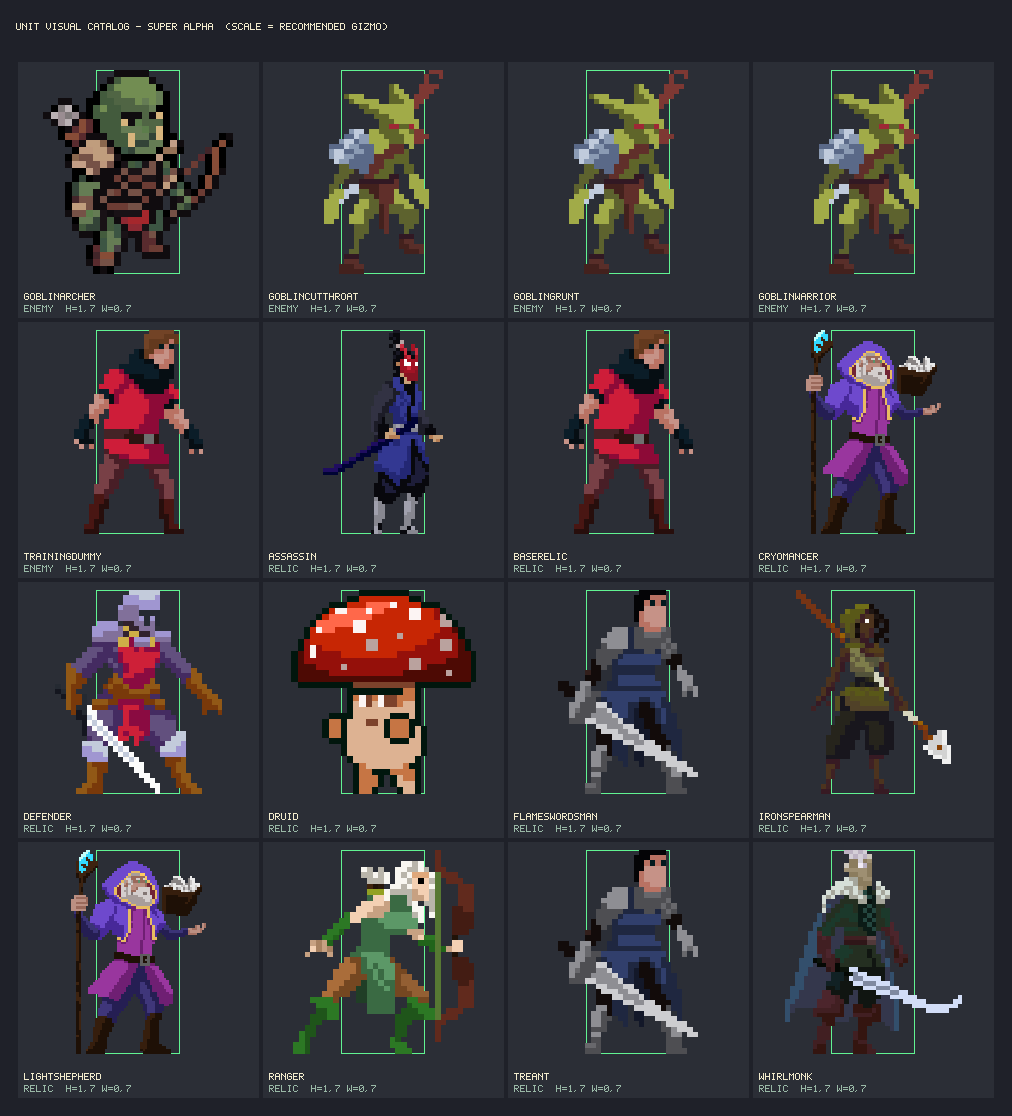
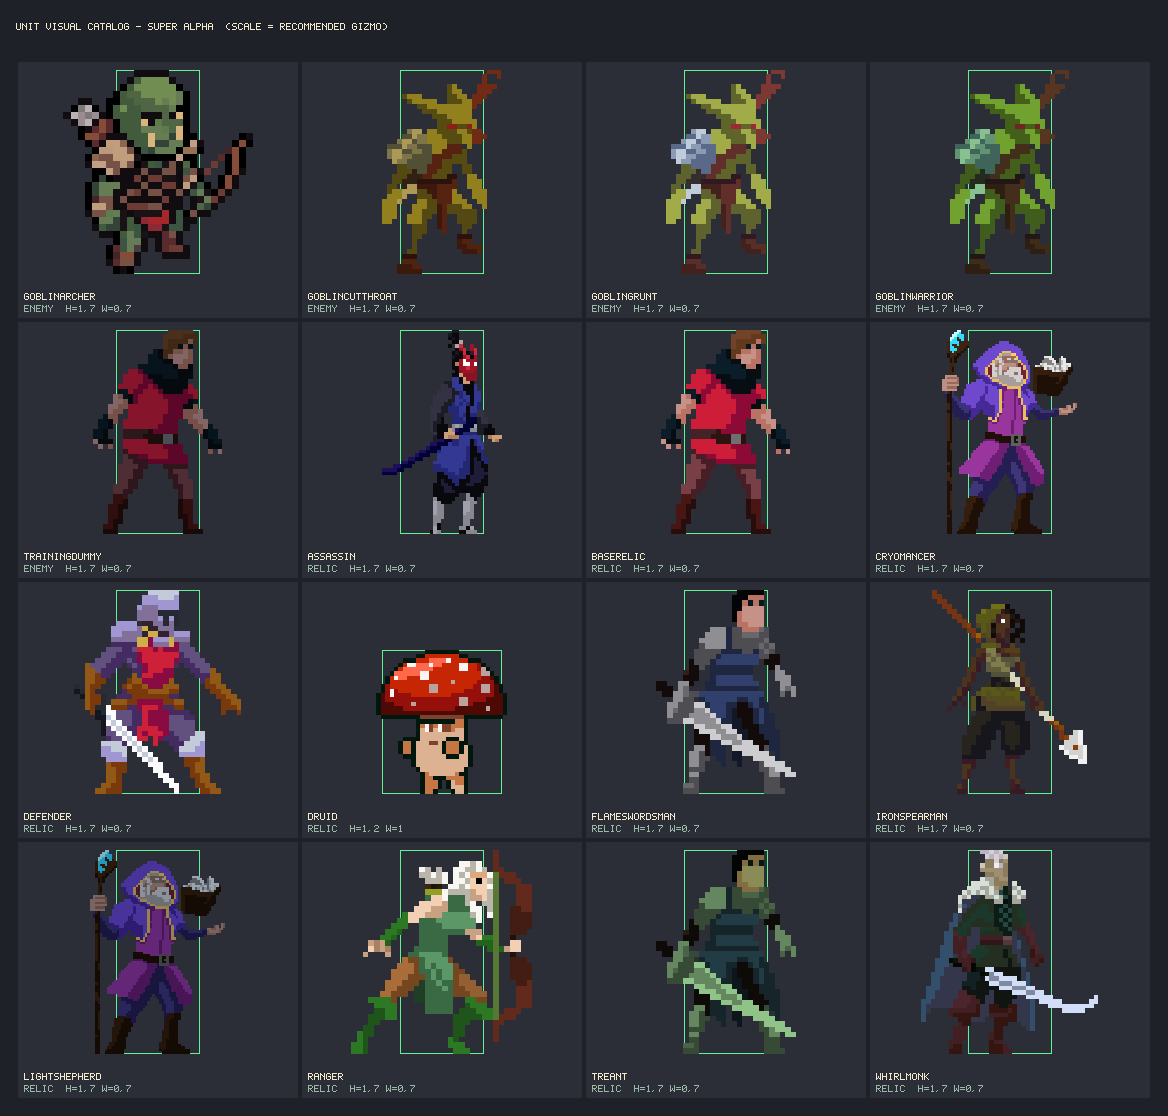
fix(visual): a shade only mutes the channels the art actually has
The warm shade was invisible on the red warrior, and that is not a tuning miss - it
is arithmetic. Tint multiplies, so a shade can only pull down channels the art
already carries: the red warrior's green and blue are near zero and its red is what
the warm shade leaves untouched. The training dummy came out identical to the base
relic it was supposed to be told apart from.

Warm is replaced by Ash - a cold darkening that is the only shade visible on ANY art.
Verdant and Tan keep their slots (they work on blue and on yellow-green), and the
enum number stays 1, so the shepherd carries over without touching its asset.

Recorded the selection rule where the shades live: pick the shade by the art's color,
not by taste.

diff --git a/Assets/_Project/Scripts/Data/Definitions/UnitColorRoles.cs b/Assets/_Project/Scripts/Data/Definitions/UnitColorRoles.cs
@@ -54,16 +54,19 @@ namespace Guildmaster.Data.Definitions
     /// <para>Тинт УМНОЖАЕТСЯ на готовый цветной арт, поэтому умеет только затемнять и уводить оттенок —
     /// перекрасить им персонажа нельзя (это работа Palette Remapper). Ступеней три: больше на цветном
     /// арте всё равно не различить. Правило сторожит <c>UnitTintPolicyTests</c>.</para>
+    /// <para><b>Ступень выбирается по цвету арта, а не по вкусу:</b> умножение гасит только те каналы,
+    /// которые в арте есть. На красном воине <see cref="Tan"/> не виден вовсе — его зелёный и синий и так
+    /// низкие, а красный ступень почти не трогает; там работает <see cref="Ash"/>.</para>
     /// </summary>
     public enum BodyShade
     {
         /// <summary>Не красим: арт как его нарисовали.</summary>
         None = 0,
-        /// <summary>Теплее и мягче исходного.</summary>
-        Warm = 1,
-        /// <summary>Зеленца.</summary>
+        /// <summary>Холодное затемнение — единственная ступень, заметная на ЛЮБОМ арте.</summary>
+        Ash = 1,
+        /// <summary>Зеленца: гасит красный и синий, зелёный оставляет.</summary>
         Verdant = 2,
-        /// <summary>Жёлто-бурый, самый тёмный из трёх.</summary>
+        /// <summary>Жёлто-бурый: работает на зелёных и жёлтых артах, на красном — нет.</summary>
         Tan = 3,
     }
 
@@ -99,7 +102,7 @@ namespace Guildmaster.Data.Definitions
         /// <summary>Имя роли в палитре для ступени приглушения. <see cref="BodyShade.None"/> роли не имеет.</summary>
         public static string TokenOf(BodyShade shade) => shade switch
         {
-            BodyShade.Warm    => "--gm-color-unit-dim-warm",
+            BodyShade.Ash     => "--gm-color-unit-dim-ash",
             BodyShade.Verdant => "--gm-color-unit-dim-verdant",
             BodyShade.Tan     => "--gm-color-unit-dim-tan",
             _                 => null,
